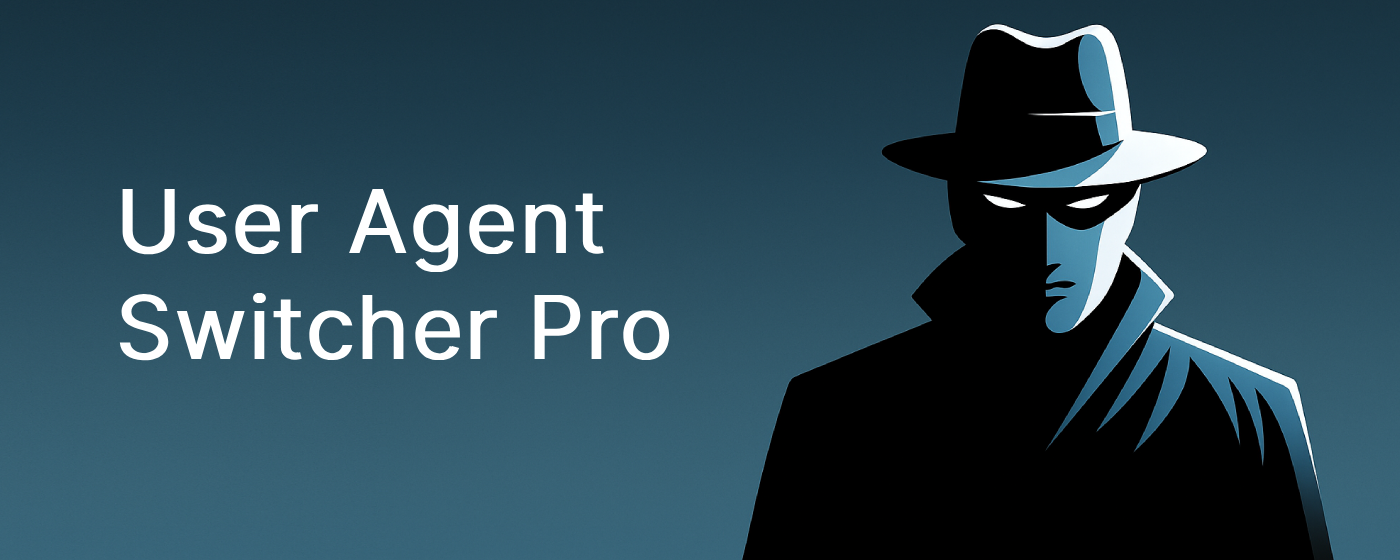
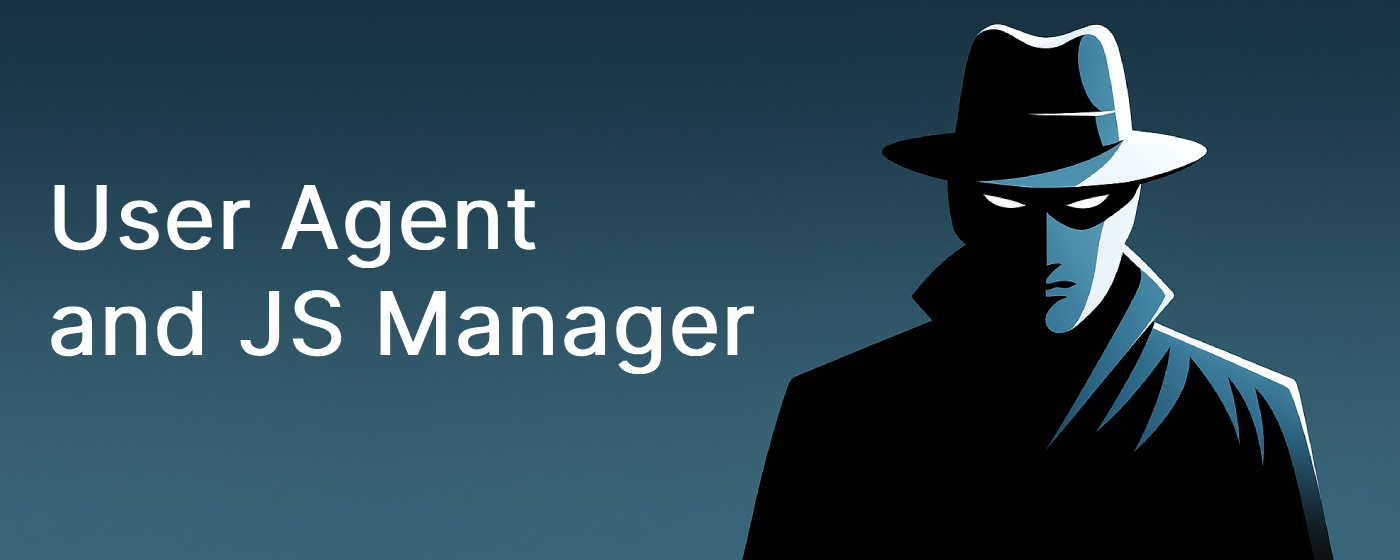
Rename extension based on chrome extension store requirements

Changed region(s): [[0.0307, 0.5161, 0.5529, 0.6679], [0.0307, 0.3339, 0.43, 0.4857]]

diff --git a/extension/popup.html b/extension/popup.html
@@ -265,7 +265,7 @@
         <div class="header">
             <div class="brand">
                 <img src="icons/icon48.png" alt="Logo" class="brand-icon" style="width: 24px; height: 24px;">
-                <span class="brand-name">UA Switcher Pro</span>
+                <span class="brand-name">User Agent<br>& JS Manager</span>
             </div>
             <div id="siteDomain" class="domain-badge">Loading...</div>
         </div>

diff --git a/extension/options.html b/extension/options.html
@@ -2,7 +2,7 @@
 <html>
 
 <head>
-    <title>User Agent Switcher Pro - Options</title>
+    <title>User Agent and JS Manager - Options</title>
     <style>
         :root {
             --bg-color: #1a1b1e;

diff --git a/README.md b/README.md
@@ -1,10 +1,11 @@
 <p align="center">
-   <img src="banners/marquee-promo-tile.png" alt="User Agent Switcher Pro Banner" width="100%">
+   <img src="banners/marquee-promo-tile.png" alt="User Agent and JS Manager Banner" width="100%">
 </p>
 
-# User Agent Switcher Pro
 
-User Agent Switcher Pro is a powerful Chrome extension designed to give you full control over your browsing identity and environment. Easily switch your User-Agent string, manage JavaScript execution, and control cookies on a per-site basis.
+# User Agent and JS Manager
+
+User Agent and JS Manager is a powerful Chrome extension designed to give you full control over your browsing identity and environment. Easily switch your User-Agent string, manage JavaScript execution, and control cookies on a per-site basis.
 
 ## Features
 
@@ -18,7 +19,7 @@ User Agent Switcher Pro is a powerful Chrome extension designed to give you full
 
 1. **Clone the repository:**
    ```bash
-   git clone https://github.com/alex12058/user-agent-switcher-pro.git
+   git clone https://github.com/alex12058/user-agent-and-js-manager.git
    ```
 2. **Open Chrome Extensions:**
    Navigate to `chrome://extensions/` in your Chrome browser.
